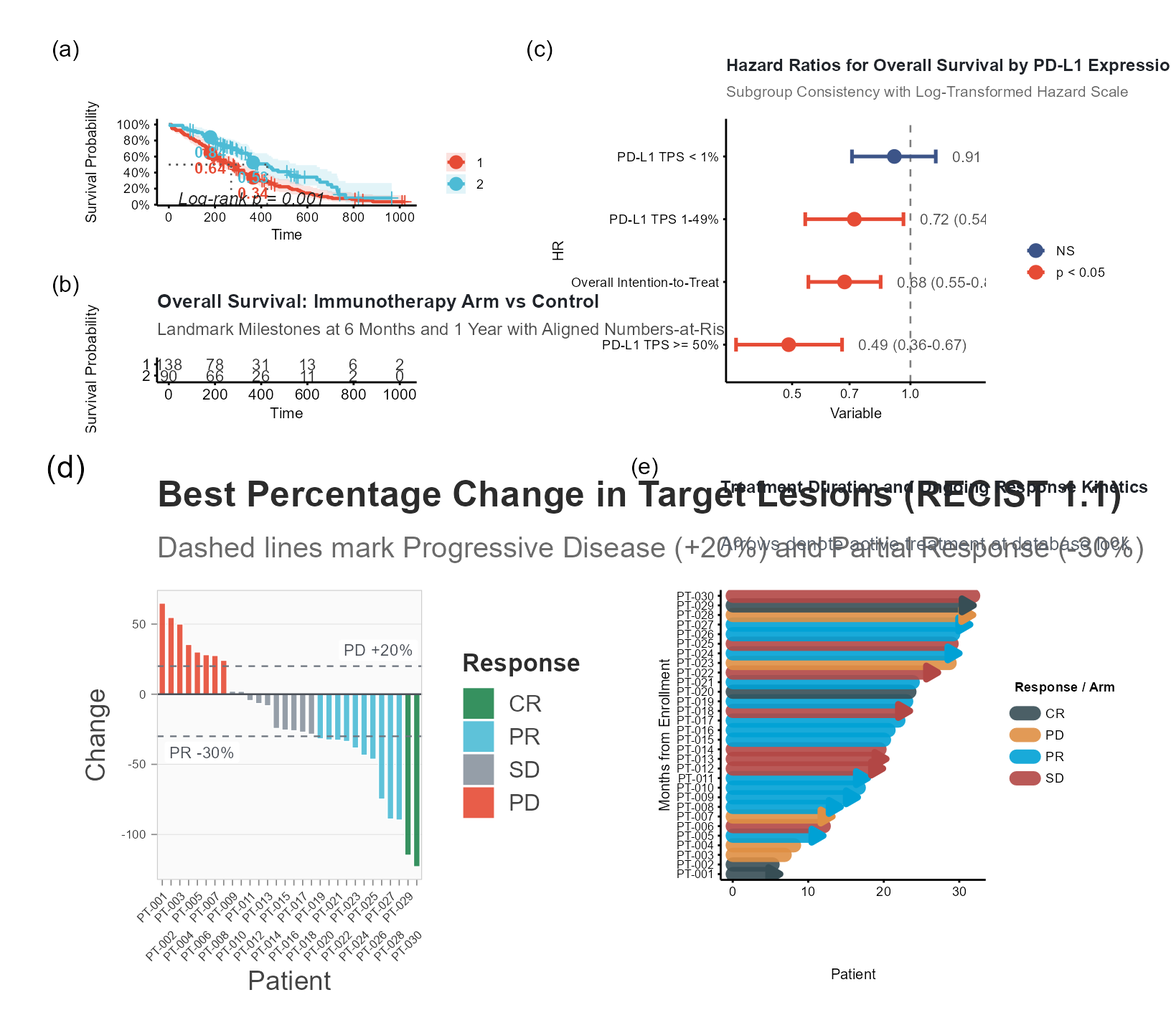
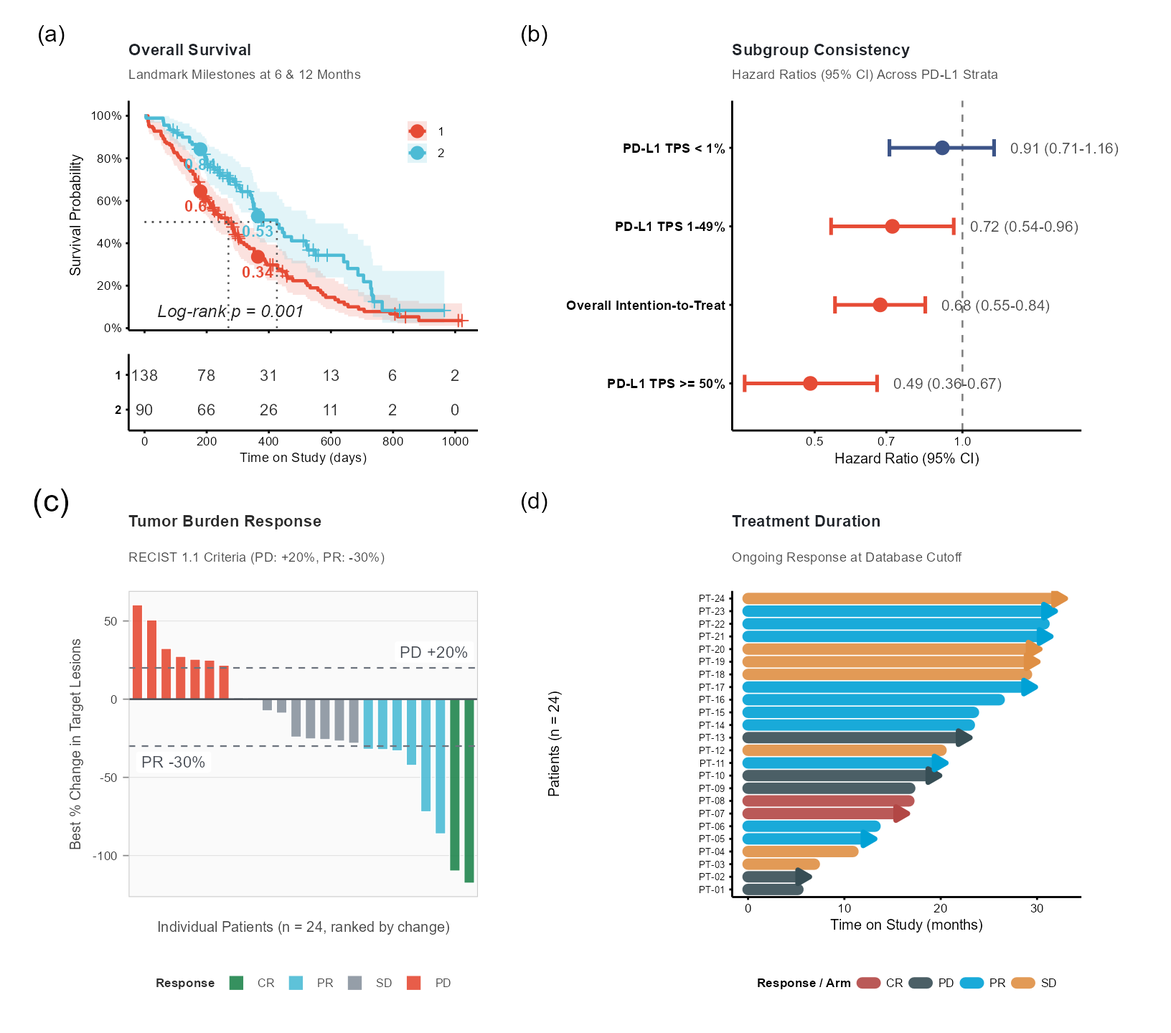
Refine cancer immunotherapy composite layout to avoid panel overlaps

diff --git a/docs/articles/case-study-cancer-immunotherapy.html b/docs/articles/case-study-cancer-immunotherapy.html
@@ -182,9 +182,9 @@ Proportion Score:
 change in target lesion sum of diameters from baseline:</p>
 <div class="sourceCode" id="cb4"><pre class="downlit sourceCode r">
 <code class="sourceCode R"><span><span class="fu"><a href="https://rdrr.io/r/base/Random.html" class="external-link">set.seed</a></span><span class="op">(</span><span class="fl">42</span><span class="op">)</span></span>
-<span><span class="va">n_eval</span> <span class="op">&lt;-</span> <span class="fl">30</span></span>
-<span><span class="va">pat_ids</span> <span class="op">&lt;-</span> <span class="fu"><a href="https://rdrr.io/r/base/paste.html" class="external-link">paste0</a></span><span class="op">(</span><span class="st">"PT-"</span>, <span class="fu"><a href="https://rdrr.io/r/base/sprintf.html" class="external-link">sprintf</a></span><span class="op">(</span><span class="st">"%03d"</span>, <span class="fl">1</span><span class="op">:</span><span class="va">n_eval</span><span class="op">)</span><span class="op">)</span></span>
-<span><span class="va">changes</span> <span class="op">&lt;-</span> <span class="fu"><a href="https://rdrr.io/r/base/sort.html" class="external-link">sort</a></span><span class="op">(</span><span class="fu"><a href="https://rdrr.io/r/stats/Normal.html" class="external-link">rnorm</a></span><span class="op">(</span><span class="va">n_eval</span>, mean <span class="op">=</span> <span class="op">-</span><span class="fl">22</span>, sd <span class="op">=</span> <span class="fl">38</span><span class="op">)</span>, decreasing <span class="op">=</span> <span class="cn">TRUE</span><span class="op">)</span></span>
+<span><span class="va">n_eval</span> <span class="op">&lt;-</span> <span class="fl">24</span></span>
+<span><span class="va">pat_ids</span> <span class="op">&lt;-</span> <span class="fu"><a href="https://rdrr.io/r/base/paste.html" class="external-link">paste0</a></span><span class="op">(</span><span class="st">"PT-"</span>, <span class="fu"><a href="https://rdrr.io/r/base/sprintf.html" class="external-link">sprintf</a></span><span class="op">(</span><span class="st">"%02d"</span>, <span class="fl">1</span><span class="op">:</span><span class="va">n_eval</span><span class="op">)</span><span class="op">)</span></span>
+<span><span class="va">changes</span> <span class="op">&lt;-</span> <span class="fu"><a href="https://rdrr.io/r/base/sort.html" class="external-link">sort</a></span><span class="op">(</span><span class="fu"><a href="https://rdrr.io/r/stats/Normal.html" class="external-link">rnorm</a></span><span class="op">(</span><span class="va">n_eval</span>, mean <span class="op">=</span> <span class="op">-</span><span class="fl">22</span>, sd <span class="op">=</span> <span class="fl">36</span><span class="op">)</span>, decreasing <span class="op">=</span> <span class="cn">TRUE</span><span class="op">)</span></span>
 <span></span>
 <span><span class="va">wf_io</span> <span class="op">&lt;-</span> <span class="fu"><a href="https://rdrr.io/r/base/data.frame.html" class="external-link">data.frame</a></span><span class="op">(</span></span>
 <span>  Patient <span class="op">=</span> <span class="fu"><a href="https://rdrr.io/r/base/factor.html" class="external-link">factor</a></span><span class="op">(</span><span class="va">pat_ids</span>, levels <span class="op">=</span> <span class="va">pat_ids</span><span class="op">)</span>,</span>
@@ -232,14 +232,14 @@ patients actively continuing therapy at data cutoff:</p>
 <span>  type <span class="op">=</span> <span class="fu"><a href="../reference/type_swimmer.html">type_swimmer</a></span><span class="op">(</span></span>
 <span>    bar_fill      <span class="op">=</span> <span class="st">"BestResp"</span>,</span>
 <span>    ongoing       <span class="op">=</span> <span class="st">"Ongoing"</span>,</span>
-<span>    bar_linewidth <span class="op">=</span> <span class="fl">3.5</span></span>
+<span>    bar_linewidth <span class="op">=</span> <span class="fl">2.8</span></span>
 <span>  <span class="op">)</span>,</span>
 <span>  bar_palette <span class="op">=</span> <span class="st">"jama"</span>,</span>
 <span>  title       <span class="op">=</span> <span class="st">"Treatment Duration and Ongoing Response Kinetics"</span>,</span>
 <span>  subtitle    <span class="op">=</span> <span class="st">"Arrows denote active treatment at database lock"</span>,</span>
 <span>  ylab        <span class="op">=</span> <span class="st">"Months from Enrollment"</span></span>
 <span><span class="op">)</span> <span class="op">+</span></span>
-<span>  <span class="fu"><a href="https://ggplot2.tidyverse.org/reference/theme.html" class="external-link">theme</a></span><span class="op">(</span>axis.text.y <span class="op">=</span> <span class="fu"><a href="https://ggplot2.tidyverse.org/reference/element.html" class="external-link">element_text</a></span><span class="op">(</span>size <span class="op">=</span> <span class="fl">6.0</span><span class="op">)</span><span class="op">)</span></span>
+<span>  <span class="fu"><a href="https://ggplot2.tidyverse.org/reference/theme.html" class="external-link">theme</a></span><span class="op">(</span>axis.text.y <span class="op">=</span> <span class="fu"><a href="https://ggplot2.tidyverse.org/reference/element.html" class="external-link">element_text</a></span><span class="op">(</span>size <span class="op">=</span> <span class="fl">5.5</span><span class="op">)</span><span class="op">)</span></span>
 <span></span>
 <span><span class="va">p_swim</span></span></code></pre></div>
 <p><img src="case-study-cancer-immunotherapy_files/figure-html/io-swimmer-1.png" class="r-plt" alt="" width="816" style="display: block; margin: auto;"></p>
@@ -251,12 +251,118 @@ patients actively continuing therapy at data cutoff:</p>
 <p>We assemble all four endpoint figures into a publication composite
 using <code>patchwork</code>:</p>
 <div class="sourceCode" id="cb6"><pre class="downlit sourceCode r">
-<code class="sourceCode R"><span><span class="va">p_composite</span> <span class="op">&lt;-</span> <span class="op">(</span><span class="va">p_km</span> <span class="op">|</span> <span class="va">p_forest</span><span class="op">)</span> <span class="op">/</span> <span class="op">(</span><span class="va">p_wf</span> <span class="op">|</span> <span class="va">p_swim</span><span class="op">)</span> <span class="op">+</span></span>
-<span>  <span class="fu"><a href="https://patchwork.data-imaginist.com/reference/plot_layout.html" class="external-link">plot_layout</a></span><span class="op">(</span>heights <span class="op">=</span> <span class="fu"><a href="https://rdrr.io/r/base/c.html" class="external-link">c</a></span><span class="op">(</span><span class="fl">1.0</span>, <span class="fl">1.1</span><span class="op">)</span><span class="op">)</span> <span class="op">+</span></span>
+<code class="sourceCode R"><span><span class="co"># Fine-tune panel components for multi-panel publication grid</span></span>
+<span><span class="va">p_km_plot</span> <span class="op">&lt;-</span> <span class="va">p_km</span><span class="op">[[</span><span class="fl">1</span><span class="op">]</span><span class="op">]</span> <span class="op">+</span></span>
+<span>  <span class="fu"><a href="https://ggplot2.tidyverse.org/reference/labs.html" class="external-link">labs</a></span><span class="op">(</span></span>
+<span>    title    <span class="op">=</span> <span class="st">"Overall Survival"</span>,</span>
+<span>    subtitle <span class="op">=</span> <span class="st">"Landmark Milestones at 6 &amp; 12 Months"</span>,</span>
+<span>    x        <span class="op">=</span> <span class="cn">NULL</span></span>
+<span>  <span class="op">)</span> <span class="op">+</span></span>
+<span>  <span class="fu"><a href="https://ggplot2.tidyverse.org/reference/theme.html" class="external-link">theme</a></span><span class="op">(</span></span>
+<span>    plot.title        <span class="op">=</span> <span class="fu"><a href="https://ggplot2.tidyverse.org/reference/element.html" class="external-link">element_text</a></span><span class="op">(</span>size <span class="op">=</span> <span class="fl">8.5</span>, face <span class="op">=</span> <span class="st">"bold"</span><span class="op">)</span>,</span>
+<span>    plot.subtitle     <span class="op">=</span> <span class="fu"><a href="https://ggplot2.tidyverse.org/reference/element.html" class="external-link">element_text</a></span><span class="op">(</span>size <span class="op">=</span> <span class="fl">7.0</span>, color <span class="op">=</span> <span class="st">"grey30"</span><span class="op">)</span>,</span>
+<span>    axis.title        <span class="op">=</span> <span class="fu"><a href="https://ggplot2.tidyverse.org/reference/element.html" class="external-link">element_text</a></span><span class="op">(</span>size <span class="op">=</span> <span class="fl">7.5</span><span class="op">)</span>,</span>
+<span>    axis.text         <span class="op">=</span> <span class="fu"><a href="https://ggplot2.tidyverse.org/reference/element.html" class="external-link">element_text</a></span><span class="op">(</span>size <span class="op">=</span> <span class="fl">6.5</span><span class="op">)</span>,</span>
+<span>    legend.position   <span class="op">=</span> <span class="fu"><a href="https://rdrr.io/r/base/c.html" class="external-link">c</a></span><span class="op">(</span><span class="fl">0.85</span>, <span class="fl">0.82</span><span class="op">)</span>,</span>
+<span>    legend.background <span class="op">=</span> <span class="fu"><a href="https://ggplot2.tidyverse.org/reference/element.html" class="external-link">element_blank</a></span><span class="op">(</span><span class="op">)</span>,</span>
+<span>    legend.title      <span class="op">=</span> <span class="fu"><a href="https://ggplot2.tidyverse.org/reference/element.html" class="external-link">element_blank</a></span><span class="op">(</span><span class="op">)</span>,</span>
+<span>    legend.text       <span class="op">=</span> <span class="fu"><a href="https://ggplot2.tidyverse.org/reference/element.html" class="external-link">element_text</a></span><span class="op">(</span>size <span class="op">=</span> <span class="fl">6.5</span><span class="op">)</span>,</span>
+<span>    axis.text.x       <span class="op">=</span> <span class="fu"><a href="https://ggplot2.tidyverse.org/reference/element.html" class="external-link">element_blank</a></span><span class="op">(</span><span class="op">)</span>,</span>
+<span>    plot.margin       <span class="op">=</span> <span class="fu"><a href="https://ggplot2.tidyverse.org/reference/element.html" class="external-link">margin</a></span><span class="op">(</span>t <span class="op">=</span> <span class="fl">2</span>, r <span class="op">=</span> <span class="fl">12</span>, b <span class="op">=</span> <span class="fl">0</span>, l <span class="op">=</span> <span class="fl">5</span>, <span class="st">"pt"</span><span class="op">)</span></span>
+<span>  <span class="op">)</span></span>
+<span></span>
+<span><span class="va">p_km_table</span> <span class="op">&lt;-</span> <span class="va">p_km</span><span class="op">[[</span><span class="fl">2</span><span class="op">]</span><span class="op">]</span> <span class="op">+</span></span>
+<span>  <span class="fu"><a href="https://ggplot2.tidyverse.org/reference/labs.html" class="external-link">labs</a></span><span class="op">(</span>title <span class="op">=</span> <span class="cn">NULL</span>, subtitle <span class="op">=</span> <span class="cn">NULL</span>, x <span class="op">=</span> <span class="st">"Time on Study (days)"</span>, y <span class="op">=</span> <span class="cn">NULL</span><span class="op">)</span> <span class="op">+</span></span>
+<span>  <span class="fu"><a href="https://ggplot2.tidyverse.org/reference/theme.html" class="external-link">theme</a></span><span class="op">(</span></span>
+<span>    plot.title    <span class="op">=</span> <span class="fu"><a href="https://ggplot2.tidyverse.org/reference/element.html" class="external-link">element_blank</a></span><span class="op">(</span><span class="op">)</span>,</span>
+<span>    plot.subtitle <span class="op">=</span> <span class="fu"><a href="https://ggplot2.tidyverse.org/reference/element.html" class="external-link">element_blank</a></span><span class="op">(</span><span class="op">)</span>,</span>
+<span>    axis.title.y  <span class="op">=</span> <span class="fu"><a href="https://ggplot2.tidyverse.org/reference/element.html" class="external-link">element_blank</a></span><span class="op">(</span><span class="op">)</span>,</span>
+<span>    axis.text.y   <span class="op">=</span> <span class="fu"><a href="https://ggplot2.tidyverse.org/reference/element.html" class="external-link">element_text</a></span><span class="op">(</span>size <span class="op">=</span> <span class="fl">6.5</span>, face <span class="op">=</span> <span class="st">"bold"</span><span class="op">)</span>,</span>
+<span>    axis.text.x   <span class="op">=</span> <span class="fu"><a href="https://ggplot2.tidyverse.org/reference/element.html" class="external-link">element_text</a></span><span class="op">(</span>size <span class="op">=</span> <span class="fl">6.5</span><span class="op">)</span>,</span>
+<span>    axis.title.x  <span class="op">=</span> <span class="fu"><a href="https://ggplot2.tidyverse.org/reference/element.html" class="external-link">element_text</a></span><span class="op">(</span>size <span class="op">=</span> <span class="fl">7.0</span><span class="op">)</span>,</span>
+<span>    plot.margin   <span class="op">=</span> <span class="fu"><a href="https://ggplot2.tidyverse.org/reference/element.html" class="external-link">margin</a></span><span class="op">(</span>t <span class="op">=</span> <span class="op">-</span><span class="fl">2</span>, r <span class="op">=</span> <span class="fl">12</span>, b <span class="op">=</span> <span class="fl">4</span>, l <span class="op">=</span> <span class="fl">5</span>, <span class="st">"pt"</span><span class="op">)</span></span>
+<span>  <span class="op">)</span></span>
+<span></span>
+<span><span class="va">p_forest_comp</span> <span class="op">&lt;-</span> <span class="va">p_forest</span> <span class="op">+</span></span>
+<span>  <span class="fu"><a href="https://ggplot2.tidyverse.org/reference/scale_continuous.html" class="external-link">scale_x_log10</a></span><span class="op">(</span>expand <span class="op">=</span> <span class="fu"><a href="https://ggplot2.tidyverse.org/reference/expansion.html" class="external-link">expansion</a></span><span class="op">(</span>mult <span class="op">=</span> <span class="fu"><a href="https://rdrr.io/r/base/c.html" class="external-link">c</a></span><span class="op">(</span><span class="fl">0.05</span>, <span class="fl">0.35</span><span class="op">)</span><span class="op">)</span><span class="op">)</span> <span class="op">+</span></span>
+<span>  <span class="fu"><a href="https://ggplot2.tidyverse.org/reference/coord_cartesian.html" class="external-link">coord_cartesian</a></span><span class="op">(</span>clip <span class="op">=</span> <span class="st">"off"</span><span class="op">)</span> <span class="op">+</span></span>
+<span>  <span class="fu"><a href="https://ggplot2.tidyverse.org/reference/labs.html" class="external-link">labs</a></span><span class="op">(</span></span>
+<span>    title    <span class="op">=</span> <span class="st">"Subgroup Consistency"</span>,</span>
+<span>    subtitle <span class="op">=</span> <span class="st">"Hazard Ratios (95% CI) Across PD-L1 Strata"</span>,</span>
+<span>    x        <span class="op">=</span> <span class="st">"Hazard Ratio (95% CI)"</span>,</span>
+<span>    y        <span class="op">=</span> <span class="cn">NULL</span></span>
+<span>  <span class="op">)</span> <span class="op">+</span></span>
+<span>  <span class="fu"><a href="https://ggplot2.tidyverse.org/reference/theme.html" class="external-link">theme</a></span><span class="op">(</span></span>
+<span>    plot.title      <span class="op">=</span> <span class="fu"><a href="https://ggplot2.tidyverse.org/reference/element.html" class="external-link">element_text</a></span><span class="op">(</span>size <span class="op">=</span> <span class="fl">8.5</span>, face <span class="op">=</span> <span class="st">"bold"</span><span class="op">)</span>,</span>
+<span>    plot.subtitle   <span class="op">=</span> <span class="fu"><a href="https://ggplot2.tidyverse.org/reference/element.html" class="external-link">element_text</a></span><span class="op">(</span>size <span class="op">=</span> <span class="fl">7.0</span>, color <span class="op">=</span> <span class="st">"grey30"</span><span class="op">)</span>,</span>
+<span>    axis.title.y    <span class="op">=</span> <span class="fu"><a href="https://ggplot2.tidyverse.org/reference/element.html" class="external-link">element_blank</a></span><span class="op">(</span><span class="op">)</span>,</span>
+<span>    axis.text.y     <span class="op">=</span> <span class="fu"><a href="https://ggplot2.tidyverse.org/reference/element.html" class="external-link">element_text</a></span><span class="op">(</span>size <span class="op">=</span> <span class="fl">7.0</span>, face <span class="op">=</span> <span class="st">"bold"</span><span class="op">)</span>,</span>
+<span>    axis.text.x     <span class="op">=</span> <span class="fu"><a href="https://ggplot2.tidyverse.org/reference/element.html" class="external-link">element_text</a></span><span class="op">(</span>size <span class="op">=</span> <span class="fl">6.5</span><span class="op">)</span>,</span>
+<span>    axis.title.x    <span class="op">=</span> <span class="fu"><a href="https://ggplot2.tidyverse.org/reference/element.html" class="external-link">element_text</a></span><span class="op">(</span>size <span class="op">=</span> <span class="fl">7.5</span><span class="op">)</span>,</span>
+<span>    legend.position <span class="op">=</span> <span class="st">"none"</span>,</span>
+<span>    plot.margin     <span class="op">=</span> <span class="fu"><a href="https://ggplot2.tidyverse.org/reference/element.html" class="external-link">margin</a></span><span class="op">(</span>t <span class="op">=</span> <span class="fl">2</span>, r <span class="op">=</span> <span class="fl">35</span>, b <span class="op">=</span> <span class="fl">4</span>, l <span class="op">=</span> <span class="fl">10</span>, <span class="st">"pt"</span><span class="op">)</span></span>
+<span>  <span class="op">)</span></span>
+<span></span>
+<span><span class="va">p_wf_comp</span> <span class="op">&lt;-</span> <span class="va">p_wf</span> <span class="op">+</span></span>
+<span>  <span class="fu"><a href="https://ggplot2.tidyverse.org/reference/labs.html" class="external-link">labs</a></span><span class="op">(</span></span>
+<span>    title    <span class="op">=</span> <span class="st">"Tumor Burden Response"</span>,</span>
+<span>    subtitle <span class="op">=</span> <span class="st">"RECIST 1.1 Criteria (PD: +20%, PR: -30%)"</span>,</span>
+<span>    x        <span class="op">=</span> <span class="st">"Individual Patients (n = 24, ranked by change)"</span>,</span>
+<span>    y        <span class="op">=</span> <span class="st">"Best % Change in Target Lesions"</span></span>
+<span>  <span class="op">)</span> <span class="op">+</span></span>
+<span>  <span class="fu"><a href="https://ggplot2.tidyverse.org/reference/theme.html" class="external-link">theme</a></span><span class="op">(</span></span>
+<span>    plot.title      <span class="op">=</span> <span class="fu"><a href="https://ggplot2.tidyverse.org/reference/element.html" class="external-link">element_text</a></span><span class="op">(</span>size <span class="op">=</span> <span class="fl">8.5</span>, face <span class="op">=</span> <span class="st">"bold"</span><span class="op">)</span>,</span>
+<span>    plot.subtitle   <span class="op">=</span> <span class="fu"><a href="https://ggplot2.tidyverse.org/reference/element.html" class="external-link">element_text</a></span><span class="op">(</span>size <span class="op">=</span> <span class="fl">7.0</span>, color <span class="op">=</span> <span class="st">"grey30"</span><span class="op">)</span>,</span>
+<span>    axis.text.x     <span class="op">=</span> <span class="fu"><a href="https://ggplot2.tidyverse.org/reference/element.html" class="external-link">element_blank</a></span><span class="op">(</span><span class="op">)</span>,</span>
+<span>    axis.ticks.x    <span class="op">=</span> <span class="fu"><a href="https://ggplot2.tidyverse.org/reference/element.html" class="external-link">element_blank</a></span><span class="op">(</span><span class="op">)</span>,</span>
+<span>    axis.text.y     <span class="op">=</span> <span class="fu"><a href="https://ggplot2.tidyverse.org/reference/element.html" class="external-link">element_text</a></span><span class="op">(</span>size <span class="op">=</span> <span class="fl">6.5</span><span class="op">)</span>,</span>
+<span>    axis.title      <span class="op">=</span> <span class="fu"><a href="https://ggplot2.tidyverse.org/reference/element.html" class="external-link">element_text</a></span><span class="op">(</span>size <span class="op">=</span> <span class="fl">7.5</span><span class="op">)</span>,</span>
+<span>    legend.position <span class="op">=</span> <span class="st">"bottom"</span>,</span>
+<span>    legend.title    <span class="op">=</span> <span class="fu"><a href="https://ggplot2.tidyverse.org/reference/element.html" class="external-link">element_text</a></span><span class="op">(</span>size <span class="op">=</span> <span class="fl">6.5</span>, face <span class="op">=</span> <span class="st">"bold"</span><span class="op">)</span>,</span>
+<span>    legend.text     <span class="op">=</span> <span class="fu"><a href="https://ggplot2.tidyverse.org/reference/element.html" class="external-link">element_text</a></span><span class="op">(</span>size <span class="op">=</span> <span class="fl">6.0</span><span class="op">)</span>,</span>
+<span>    legend.key.size <span class="op">=</span> <span class="fu"><a href="https://rdrr.io/r/grid/unit.html" class="external-link">unit</a></span><span class="op">(</span><span class="fl">3</span>, <span class="st">"mm"</span><span class="op">)</span>,</span>
+<span>    plot.margin     <span class="op">=</span> <span class="fu"><a href="https://ggplot2.tidyverse.org/reference/element.html" class="external-link">margin</a></span><span class="op">(</span>t <span class="op">=</span> <span class="fl">6</span>, r <span class="op">=</span> <span class="fl">12</span>, b <span class="op">=</span> <span class="fl">5</span>, l <span class="op">=</span> <span class="fl">5</span>, <span class="st">"pt"</span><span class="op">)</span></span>
+<span>  <span class="op">)</span></span>
+<span></span>
+<span><span class="va">p_swim_comp</span> <span class="op">&lt;-</span> <span class="va">p_swim</span> <span class="op">+</span></span>
+<span>  <span class="fu"><a href="https://ggplot2.tidyverse.org/reference/labs.html" class="external-link">labs</a></span><span class="op">(</span></span>
+<span>    title    <span class="op">=</span> <span class="st">"Treatment Duration"</span>,</span>
+<span>    subtitle <span class="op">=</span> <span class="st">"Ongoing Response at Database Cutoff"</span>,</span>
+<span>    x        <span class="op">=</span> <span class="st">"Time on Study (months)"</span>,</span>
+<span>    y        <span class="op">=</span> <span class="st">"Patients (n = 24)"</span></span>
+<span>  <span class="op">)</span> <span class="op">+</span></span>
+<span>  <span class="fu"><a href="https://ggplot2.tidyverse.org/reference/theme.html" class="external-link">theme</a></span><span class="op">(</span></span>
+<span>    plot.title      <span class="op">=</span> <span class="fu"><a href="https://ggplot2.tidyverse.org/reference/element.html" class="external-link">element_text</a></span><span class="op">(</span>size <span class="op">=</span> <span class="fl">8.5</span>, face <span class="op">=</span> <span class="st">"bold"</span><span class="op">)</span>,</span>
+<span>    plot.subtitle   <span class="op">=</span> <span class="fu"><a href="https://ggplot2.tidyverse.org/reference/element.html" class="external-link">element_text</a></span><span class="op">(</span>size <span class="op">=</span> <span class="fl">7.0</span>, color <span class="op">=</span> <span class="st">"grey30"</span><span class="op">)</span>,</span>
+<span>    axis.text.y     <span class="op">=</span> <span class="fu"><a href="https://ggplot2.tidyverse.org/reference/element.html" class="external-link">element_text</a></span><span class="op">(</span>size <span class="op">=</span> <span class="fl">5.2</span><span class="op">)</span>,</span>
+<span>    axis.text.x     <span class="op">=</span> <span class="fu"><a href="https://ggplot2.tidyverse.org/reference/element.html" class="external-link">element_text</a></span><span class="op">(</span>size <span class="op">=</span> <span class="fl">6.5</span><span class="op">)</span>,</span>
+<span>    axis.title      <span class="op">=</span> <span class="fu"><a href="https://ggplot2.tidyverse.org/reference/element.html" class="external-link">element_text</a></span><span class="op">(</span>size <span class="op">=</span> <span class="fl">7.5</span><span class="op">)</span>,</span>
+<span>    legend.position <span class="op">=</span> <span class="st">"bottom"</span>,</span>
+<span>    legend.title    <span class="op">=</span> <span class="fu"><a href="https://ggplot2.tidyverse.org/reference/element.html" class="external-link">element_text</a></span><span class="op">(</span>size <span class="op">=</span> <span class="fl">6.5</span>, face <span class="op">=</span> <span class="st">"bold"</span><span class="op">)</span>,</span>
+<span>    legend.text     <span class="op">=</span> <span class="fu"><a href="https://ggplot2.tidyverse.org/reference/element.html" class="external-link">element_text</a></span><span class="op">(</span>size <span class="op">=</span> <span class="fl">6.0</span><span class="op">)</span>,</span>
+<span>    legend.key.size <span class="op">=</span> <span class="fu"><a href="https://rdrr.io/r/grid/unit.html" class="external-link">unit</a></span><span class="op">(</span><span class="fl">3</span>, <span class="st">"mm"</span><span class="op">)</span>,</span>
+<span>    plot.margin     <span class="op">=</span> <span class="fu"><a href="https://ggplot2.tidyverse.org/reference/element.html" class="external-link">margin</a></span><span class="op">(</span>t <span class="op">=</span> <span class="fl">6</span>, r <span class="op">=</span> <span class="fl">12</span>, b <span class="op">=</span> <span class="fl">5</span>, l <span class="op">=</span> <span class="fl">5</span>, <span class="st">"pt"</span><span class="op">)</span></span>
+<span>  <span class="op">)</span></span>
+<span></span>
+<span><span class="co"># 5-slot grid: (a) KM curve, (b) Forest plot, untagged Risk Table, (c) Waterfall, (d) Swimmer</span></span>
+<span><span class="va">design</span> <span class="op">&lt;-</span> <span class="st">"</span></span>
+<span><span class="st">11112222</span></span>
+<span><span class="st">11112222</span></span>
+<span><span class="st">11112222</span></span>
+<span><span class="st">33332222</span></span>
+<span><span class="st">44445555</span></span>
+<span><span class="st">44445555</span></span>
+<span><span class="st">44445555</span></span>
+<span><span class="st">44445555</span></span>
+<span><span class="st">"</span></span>
+<span></span>
+<span><span class="va">p_composite</span> <span class="op">&lt;-</span> <span class="va">p_km_plot</span> <span class="op">+</span> <span class="va">p_forest_comp</span> <span class="op">+</span> <span class="va">p_km_table</span> <span class="op">+</span> <span class="va">p_wf_comp</span> <span class="op">+</span> <span class="va">p_swim_comp</span> <span class="op">+</span></span>
+<span>  <span class="fu"><a href="https://patchwork.data-imaginist.com/reference/plot_layout.html" class="external-link">plot_layout</a></span><span class="op">(</span>design <span class="op">=</span> <span class="va">design</span><span class="op">)</span> <span class="op">+</span></span>
 <span>  <span class="fu"><a href="https://patchwork.data-imaginist.com/reference/plot_annotation.html" class="external-link">plot_annotation</a></span><span class="op">(</span></span>
-<span>    tag_levels <span class="op">=</span> <span class="st">"a"</span>,</span>
-<span>    tag_prefix <span class="op">=</span> <span class="st">"("</span>,</span>
-<span>    tag_suffix <span class="op">=</span> <span class="st">")"</span></span>
+<span>    tag_levels <span class="op">=</span> <span class="fu"><a href="https://rdrr.io/r/base/list.html" class="external-link">list</a></span><span class="op">(</span><span class="fu"><a href="https://rdrr.io/r/base/c.html" class="external-link">c</a></span><span class="op">(</span><span class="st">"(a)"</span>, <span class="st">"(b)"</span>, <span class="st">""</span>, <span class="st">"(c)"</span>, <span class="st">"(d)"</span><span class="op">)</span><span class="op">)</span>,</span>
+<span>    theme <span class="op">=</span> <span class="fu"><a href="https://ggplot2.tidyverse.org/reference/theme.html" class="external-link">theme</a></span><span class="op">(</span></span>
+<span>      plot.tag <span class="op">=</span> <span class="fu"><a href="https://ggplot2.tidyverse.org/reference/element.html" class="external-link">element_text</a></span><span class="op">(</span>size <span class="op">=</span> <span class="fl">9.5</span>, face <span class="op">=</span> <span class="st">"bold"</span><span class="op">)</span></span>
+<span>    <span class="op">)</span></span>
 <span>  <span class="op">)</span></span>
 <span></span>
 <span><span class="va">p_composite</span></span></code></pre></div>
